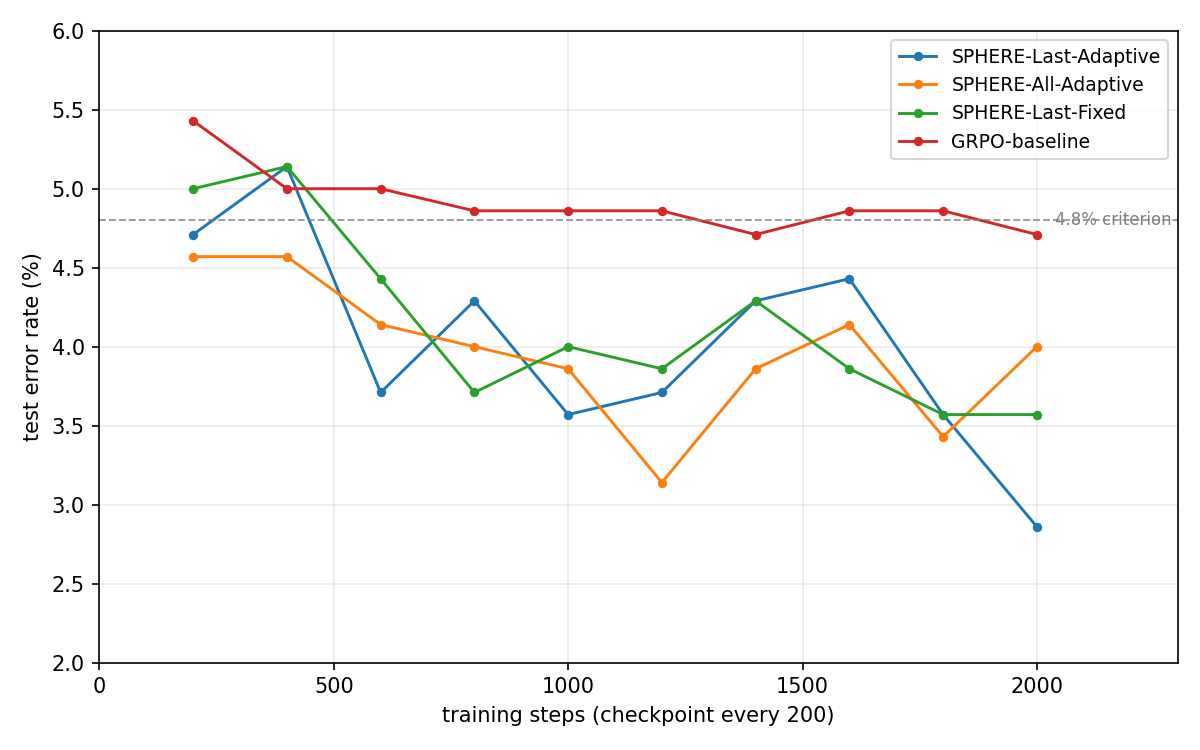
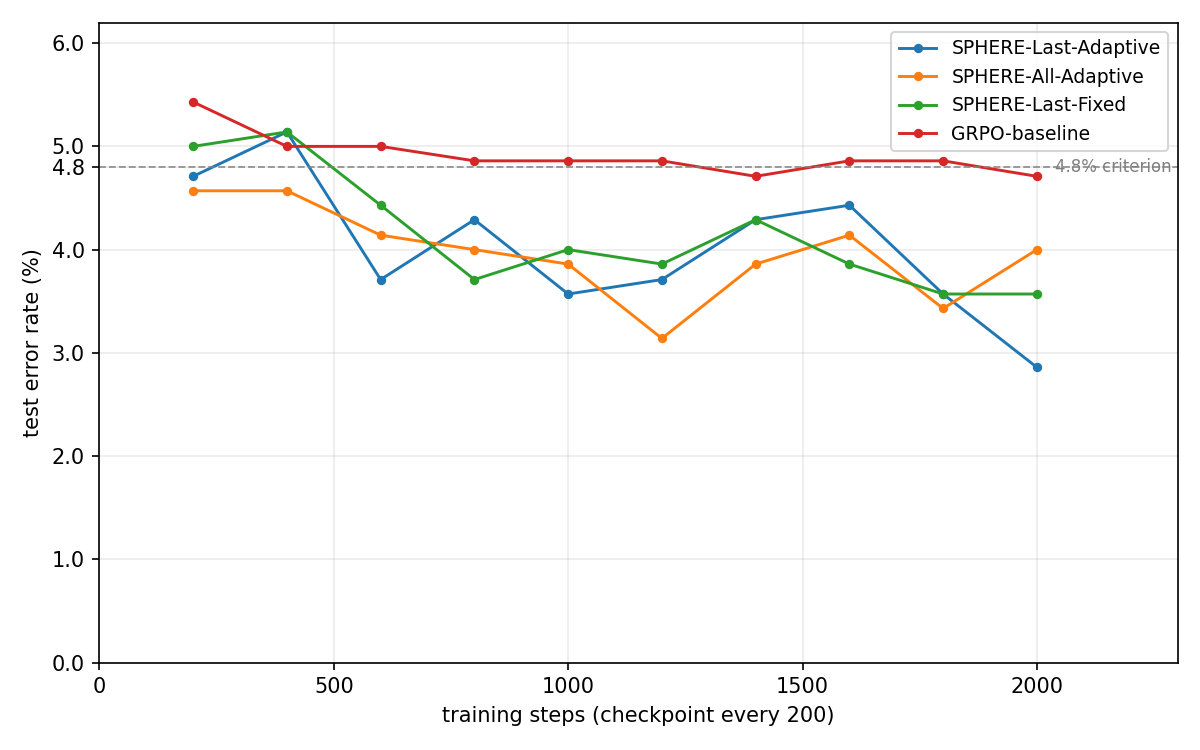
error-rate figure: start the y axis at 0 for the honest overall view, and add error-rate-curves-zoom.png (2.5-5.5%) so the 4.8% crossing stays readable

diff --git a/scripts/plot_nm_curves.py b/scripts/plot_nm_curves.py
@@ -1,5 +1,7 @@
 #!/usr/bin/env python3
-"""生成 SNIPS/logs/error-rate-curves.png：test 错误率-训练步数曲线。
+"""生成 test 错误率-训练步数曲线（两张）：
+  SNIPS/logs/error-rate-curves.png        纵轴 0 起，看整体水平
+  SNIPS/logs/error-rate-curves-zoom.png   放大到 2.5–5.5%，看 4.8% 判据线的穿越位置
 
 数据 = SNIPS/logs/nm-sweep.csv（scripts/nm_sweep.sh 逐检查点扫描）：
 每 200 步保存的检查点加载权重后跑一次 test 集（700 条）得到的
@@ -36,8 +38,7 @@ def load():
     return data
 
 
-def main():
-    data = load()
+def draw(data, ylim, filename, y_ticks):
     fig, ax = plt.subplots(figsize=(8, 5))
     for m in MODELS:
         steps, errs = data[m]
@@ -49,13 +50,25 @@ def main():
     ax.set_xlabel("training steps (checkpoint every 200)")
     ax.set_ylabel("test error rate (%)")
     ax.set_xlim(0, 2300)
-    ax.set_ylim(2, 6)
+    ax.set_ylim(*ylim)
+    ax.set_yticks(y_ticks)
     ax.grid(True, alpha=0.25)
     ax.legend(loc="upper right", fontsize=9)
     fig.tight_layout()
-    out = os.path.join(LOGS, "error-rate-curves.png")
+    out = os.path.join(LOGS, filename)
     fig.savefig(out, dpi=150)
+    plt.close(fig)
     print("[plot] error-rate vs step ->", out)
+
+
+def main():
+    data = load()
+    # 整体：纵轴从 0 起
+    draw(data, (0, 6.2), "error-rate-curves.png",
+         [0, 1, 2, 3, 4, 4.8, 5, 6])
+    # 放大：只看 2.5–5.5%，4.8% 判据线和穿越位置更清楚
+    draw(data, (2.5, 5.5), "error-rate-curves-zoom.png",
+         [2.5, 3.0, 3.5, 4.0, 4.5, 4.8, 5.0, 5.5])
 
 
 if __name__ == "__main__":

diff --git a/SNIPS/logs/README.md b/SNIPS/logs/README.md
@@ -3,7 +3,8 @@
 每个模型一个子目录，含 `curves.png` 训练曲线图与 `curves.csv` 逐 step
 数据，生成脚本为 `scripts/plot_songce_curves.py`。`curves-all.png` 为
 全部已训模型的对比总图。`error-rate-curves.png` 为 test 错误率-训练
-步数曲线，是高效性判据的可视化。`evaluate.py` 的汇总输出写在本目录
+步数曲线（纵轴 0 起），`error-rate-curves-zoom.png` 是判据线附近的放大版，
+两者是高效性判据的可视化。`evaluate.py` 的汇总输出写在本目录
 `evaluate-summary.txt`。
 
 ![全部模型训练曲线对比](curves-all.png)
@@ -46,6 +47,10 @@ GRPO 基线到 1400 步才达到，项目算法所需训练步数少于基线。
 三算法全部达到，基线在整个 2000 步训练中均未达到，最低错误率 4.71%。
 
 ![test 错误率-训练步数曲线](error-rate-curves.png)
+
+纵轴 0 起看整体水平；判据线附近的穿越位置看放大图：
+
+![test 错误率-训练步数曲线（放大）](error-rate-curves-zoom.png)
 
 ## curves.csv 字段
 

diff --git a/README.md b/README.md
@@ -72,6 +72,9 @@ rsync -a --exclude 'step*' --exclude 'training-log.jsonl' --exclude 'evidence.js
 
    ![test 错误率-训练步数曲线](SNIPS/logs/error-rate-curves.png)
 
+   纵轴 0 起看整体水平，判据线附近的穿越位置见放大图
+   `SNIPS/logs/error-rate-curves-zoom.png`。
+
    逐检查点的原始评测数据：
 
    ```bash
